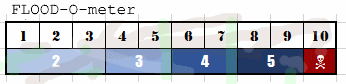
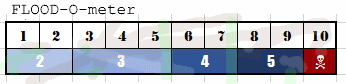
launch Panel fix

Changed region(s): [[0.2023, 0.5714, 0.4335, 0.881], [0.0867, 0.6429, 0.1734, 0.8095]]

diff --git a/src/index.js b/src/index.js
@@ -227,7 +227,6 @@ class Board extends React.Component {
   constructor(props) {
     super(props);
 
-    // var selectedLanguage = props.language === "FR" ? 0 : 1;// 0:french 1:english
     var nbrOfPlayers = props.nbrOfPlayers;
 
     var tiles = riseTheIsland();
@@ -235,7 +234,7 @@ class Board extends React.Component {
     var playerCardsDiscard = [];
     var floodCardsLeap = generateFloodCardsLeap();
     var floodCardsDiscard = [];
-    var floodMeter = new FloodMeter(1);
+    var floodMeter = new FloodMeter(props.difficultyLevel);
     // let mainUserMessage = new UserMessage("Welcome new Player. Choose a first action for the first character.", false, []);
     let mainUserMessage = new UserMessage("... INITIALIZATION... ", null, false, []);
 
@@ -2060,20 +2059,6 @@ handleTileClick(i) {
       else {
         translatedString = this.getStringInTheCatalog(lng, this.state.mainUserMessage.message);
       }
-      /*
-      if (msgEts && msgEts.length > 0){
-          for (let i = 0; i < msgEts.length; i++){
-            if (msgEts[i][0] === '<'){
-              composedString = composedString + msgEts[i];
-            }
-            else{
-              composedString = composedString + this.getStringInTheCatalog(this.state.languageDistributor, msgEts[i]);
-            }
-          }
-      } else {
-        composedString = this.getStringInTheCatalog(lng, this.state.mainUserMessage.message);
-      }
-      */
 
       return(
           <div><span id="mainMessage" dangerouslySetInnerHTML={{__html: translatedString}} />
@@ -2135,6 +2120,7 @@ handleTileClick(i) {
 
   retry(){
     alert ("Feature is Broken");
+    // TODO
     // this.location.reload();
   }
 
@@ -2197,7 +2183,6 @@ handleTileClick(i) {
             return catalog[i][1];
           }
       }
-
       return "YYYYY FIX ME YYYYY";
   }
 
@@ -2205,7 +2190,7 @@ handleTileClick(i) {
   render() {
       // Flood-O-meter values for the needle
       let position_value = "relative";
-      let left_value = 5;
+      let left_value = 5 + ((this.state.floodMeter.level - 1) * 33);
       let top_value = -70;
 
     return (
@@ -2358,7 +2343,7 @@ class Game extends React.Component {
       showStartPanel: true,
       showBoardPanel: true,
       showGameOverPanel: false,
-      difficultyLevel: 0,
+      difficultyLevel: 1,
       language: "FR",
       nbrOfPlayers: 2
     };
@@ -2367,20 +2352,20 @@ class Game extends React.Component {
     doChangeLangSelector(){
        if (this.state.language === "FR"){
            document.getElementById("homeLangToggle").src = "img/toggle_left.png";
-           this.setState({language: "EN",
-                          difficultyLevel: this.difficultyLevel,
-                          });
+           this.setState({language: "EN"});
        } else {
            document.getElementById("homeLangToggle").src = "img/toggle_right.png";
-           this.setState({language: "FR",
-                          difficultyLevel: this.difficultyLevel,
-                          });
+           this.setState({language: "FR"});
            // TODO : reload the Panel with proper language
        }
      }
 
      doChangeNbrOfPlayers(x){
        this.setState({ nbrOfPlayers: x});
+     }
+
+     doChangeDifficulty(x){
+       this.setState({ difficultyLevel: x});
      }
 
      launchBoard(){
@@ -2391,7 +2376,7 @@ class Game extends React.Component {
             showBoardPanel: true });
 
           ReactDOM.render(
-            <Board nbrOfPlayers={this.state.nbrOfPlayers} difficultyLevel={this.difficultyLevel} language={this.state.language}/>,
+            <Board nbrOfPlayers={this.state.nbrOfPlayers} difficultyLevel={this.state.difficultyLevel} language={this.state.language}/>,
             document.getElementById('game-board'));
      }
 
@@ -2423,15 +2408,15 @@ class Game extends React.Component {
         <div id="start-panel" className="game-start" style={showHideStartPanel}>
           <div>Holla Camarade.</div>
           <div>Combien d'aventuriers ?
-                  2 <input type="radio" name="howManyAdventurers" key="howManyAdventurers2" checked="checked" value='2' onChange={() => this.doChangeNbrOfPlayers(2)}/> |
+                  2 <input type="radio" name="howManyAdventurers" key="howManyAdventurers2" value='2' onChange={() => this.doChangeNbrOfPlayers(2)}/> |
                   3 <input type="radio" name="howManyAdventurers" key="howManyAdventurers3" value='3' onChange={() => this.doChangeNbrOfPlayers(3)}/> |
                   4 <input type="radio" name="howManyAdventurers" key="howManyAdventurers4" value='4' onChange={() => this.doChangeNbrOfPlayers(4)} />
           </div>
           <div>Quelle difficultée ?
-                  Novice <input type="radio" name="WhichDifficulty" key="WhichDifficulty1" value='1' onChange={() => this.difficultyLevel = 1}/> |
-                  Normal <input type="radio" name="WhichDifficulty" key="WhichDifficulty2" checked="checked" value='2' onChange={() => this.difficultyLevel = 2}/> |
-                  Elite <input type="radio" name="WhichDifficulty" key="WhichDifficulty3" value='3' onChange={() => this.difficultyLevel = 3}/> |
-                  Légende <input type="radio" name="WhichDifficulty" key="WhichDifficulty4" value='4' onChange={() => this.difficultyLevel = 4}/> |
+                  Novice <input type="radio" name="WhichDifficulty" key="WhichDifficulty1" value='1' onChange={() => this.doChangeDifficulty(1)}/> |
+                  Normal <input type="radio" name="WhichDifficulty" key="WhichDifficulty2" value='2' onChange={() => this.doChangeDifficulty(2)}/> |
+                  Elite <input type="radio" name="WhichDifficulty" key="WhichDifficulty3" value='3' onChange={() => this.doChangeDifficulty(3)}/> |
+                  Légende <input type="radio" name="WhichDifficulty" key="WhichDifficulty4" value='4' onChange={() => this.doChangeDifficulty(4)}/> |
             </div>
           <div>Quelle langue ? English <img id="homeLangToggle" src="img/toggle_right.png" onClick={() => this.doChangeLangSelector()} /> Français</div>
 
@@ -2497,7 +2482,9 @@ class FloodMeter {
   }
 
   howManyCards(level){
-    if (level < 4){
+    // fix flood scale :  |12|345|67|89|
+    //                    |2 |3  |4 |5 |
+    if (level < 3){
         return 2;
     } else if (level < 6) {
         return 3;
